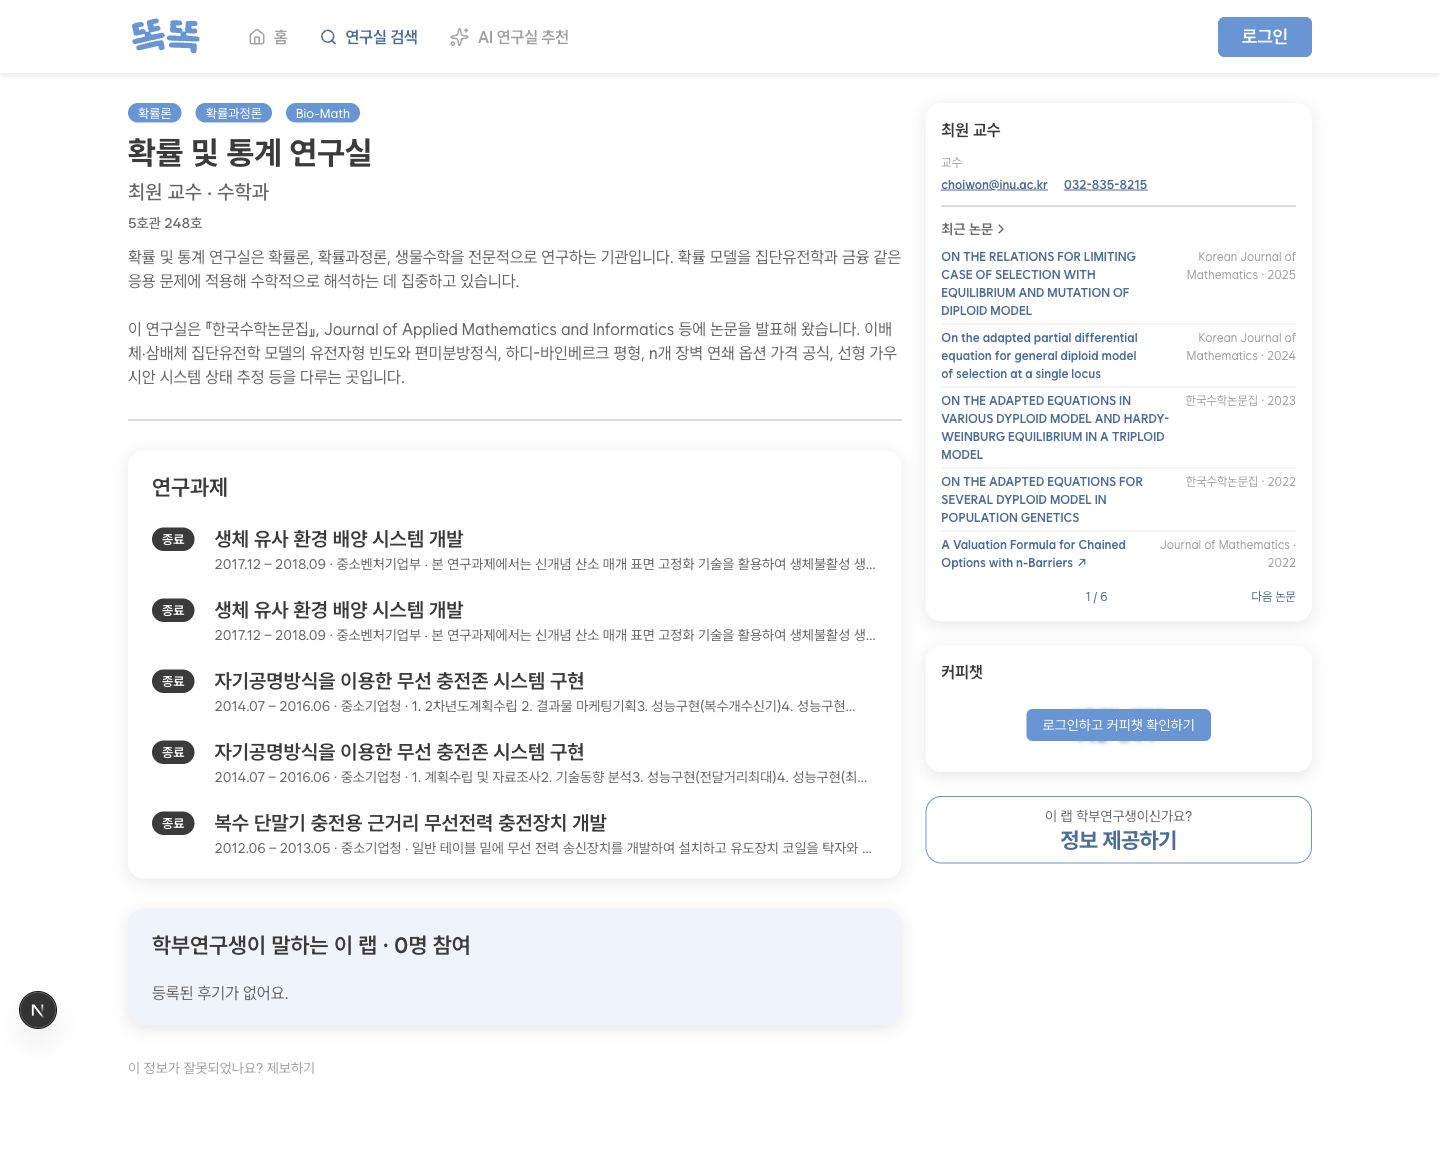
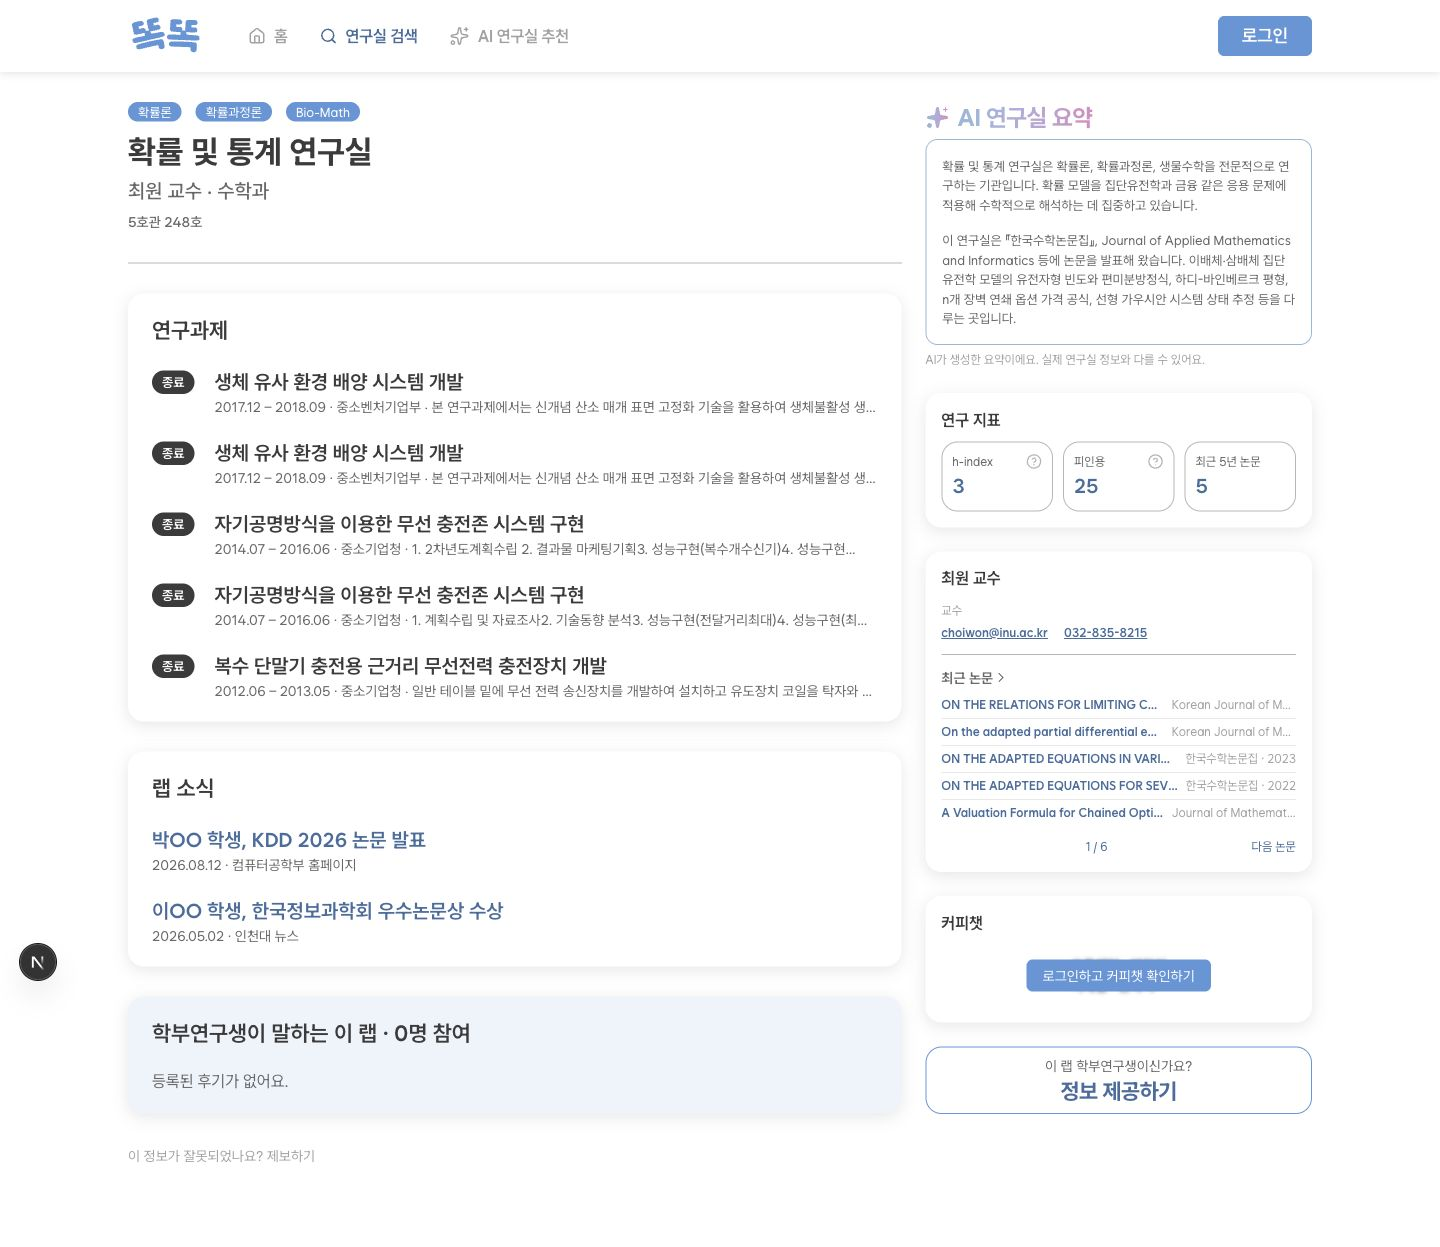
🎨 style : 최신 상세 UI와 논문 말줄임 반영
Related to TTOK-69

diff --git a/src/_pages/lab-detail/ui/lab-detail-page.tsx b/src/_pages/lab-detail/ui/lab-detail-page.tsx
@@ -11,6 +11,7 @@ import { MobileBottomNav } from "@/widgets/mobile-bottom-nav";
 
 import { LabNews, ProfessorCard, ResearchProjects } from "./detail-content";
 import { ResearchMetrics } from "./research-metrics";
+import { DETAIL_NEWS_PREVIEW } from "../model/detail-preview";
 import { MobileAiSummary } from "./mobile-ai-summary";
 
 export type LabDetailPageProps = {
@@ -35,12 +36,19 @@ export function LabDetailPage({
   lab,
 }: LabDetailPageProps) {
   const { memberCounts } = lab;
+  const aiSummary = lab.description.trim()
+    ? lab.description
+        .split(/\n\s*\n/)
+        .map((paragraph) => paragraph.trim())
+        .filter(Boolean)
+    : lab.aiSummary;
+  const displayLab = { ...lab, news: lab.news ?? DETAIL_NEWS_PREVIEW };
 
   return (
     <div className="min-h-screen bg-bg-default text-text-default">
       <main className="flex flex-col gap-5 px-4 pb-[calc(111px_+_env(safe-area-inset-bottom))] pt-[27px] md:hidden">
-        {lab.aiSummary.length > 0 ? (
-          <MobileAiSummary paragraphs={lab.aiSummary} />
+        {aiSummary.length > 0 ? (
+          <MobileAiSummary paragraphs={aiSummary} />
         ) : null}
 
         <header>
@@ -63,9 +71,6 @@ export function LabDetailPage({
               </Tag>
             ))}
           </div>
-          <p className="mt-[10px] text-[length:var(--font-size-caption1)] leading-[1.5] text-text-subtle">
-            {lab.description}
-          </p>
           <dl className="mt-[10px] flex flex-col gap-[6px] text-[length:var(--font-size-caption1)] leading-[1.5] text-text-subtle">
             <div className="flex gap-1">
               <dt>위치 ·</dt>
@@ -178,14 +183,9 @@ export function LabDetailPage({
                 </a>
               ) : null}
             </div>
-            {lab.description && !lab.aiSummary.length ? (
-              <p className="mt-3 whitespace-pre-line text-[length:var(--font-size-body2)] leading-[1.5] text-text-subtle">
-                {lab.description}
-              </p>
-            ) : null}
           </header>
           <ResearchProjects lab={lab} />
-          <LabNews lab={lab} />
+          <LabNews lab={displayLab} />
           <section className="rounded-[var(--radius-2xl)] bg-bg-primary-subtle px-6 py-5 shadow-[0_4px_16px_var(--color-opacity-black-10)]">
             <h2 className="text-[length:var(--font-size-heading1)] font-semibold leading-[1.5]">
               학부연구생이 말하는 이 랩 · {lab.experience.participantCount}명
@@ -222,7 +222,7 @@ export function LabDetailPage({
           </div>
         </div>
         <aside className="flex min-w-0 flex-col gap-6 pt-[30px]">
-          {lab.aiSummary.length > 0 ? (
+          {aiSummary.length > 0 ? (
             <section>
               <div className="flex items-center gap-2">
                 <Image
@@ -236,7 +236,7 @@ export function LabDetailPage({
                 </h2>
               </div>
               <div className="mt-[6px] rounded-[var(--radius-xl)] border border-[#a7c0db] p-4 text-[length:var(--font-size-label2)] leading-[1.5] text-text-subtle">
-                {lab.aiSummary.map((paragraph) => (
+                {aiSummary.map((paragraph) => (
                   <p className="not-last:mb-4" key={paragraph}>
                     {paragraph}
                   </p>

diff --git a/src/_pages/lab-detail/ui/research-metrics.tsx b/src/_pages/lab-detail/ui/research-metrics.tsx
@@ -4,7 +4,6 @@ import Image from "next/image";
 import { useEffect, useId, useState } from "react";
 
 import type { LabResearchMetrics } from "@/entities/lab";
-import { Tag } from "@/shared/ui";
 
 export function ResearchMetrics({ metrics }: { metrics: LabResearchMetrics }) {
   const [activeMetric, setActiveMetric] = useState<string | null>(null);
@@ -30,7 +29,7 @@ export function ResearchMetrics({ metrics }: { metrics: LabResearchMetrics }) {
       value: metrics.citations,
       percentile: metrics.citationPercentile,
     },
-    { key: "papers", label: "5년 논문", value: metrics.fiveYearPapers },
+    { key: "papers", label: "최근 5년 논문", value: metrics.fiveYearPapers },
   ];
 
   return (
@@ -79,17 +78,7 @@ export function ResearchMetrics({ metrics }: { metrics: LabResearchMetrics }) {
               ) : null}
             </dt>
             <dd className="text-[length:var(--font-size-heading2)] font-semibold leading-[1.5] text-text-primary">
-              {item.value.toLocaleString("ko-KR")}
-            </dd>
-            <dd className="min-h-[15px]">
-              {item.percentile !== undefined ? (
-                <Tag
-                  className="!px-[6px] !text-[10px]"
-                  tone={item.key === "h-index" ? "primary" : "secondary"}
-                >
-                  상위 {item.percentile}%
-                </Tag>
-              ) : null}
+              {item.value?.toLocaleString("ko-KR") ?? "—"}
             </dd>
           </div>
         ))}
@@ -114,6 +103,11 @@ export function ResearchMetrics({ metrics }: { metrics: LabResearchMetrics }) {
           <h3 className="text-[length:var(--font-size-heading2)] font-semibold leading-[1.5]">
             {activeMetric === "citations" ? "피인용지수" : "h-index"}
           </h3>
+          {metrics.syncedAt ? (
+            <p className="mt-1 text-[length:var(--font-size-caption1)] text-text-subtle">
+              기준일 {metrics.syncedAt.slice(0, 10)}
+            </p>
+          ) : null}
           {activeMetric === "citations" ? (
             <>
               <div className="mt-3 rounded-[var(--radius-2xl)] border border-icon-disabled p-3">

diff --git a/src/_pages/lab-detail/ui/detail-content.tsx b/src/_pages/lab-detail/ui/detail-content.tsx
@@ -187,7 +187,8 @@ export function LabNews({ lab }: { lab: LabDetail }) {
 export function PaperTitle({ paper }: { paper: LabPaper }) {
   return paper.url ? (
     <a
-      className="hover:underline focus-visible:outline-2 focus-visible:outline-border-primary"
+      className="block truncate hover:underline focus-visible:outline-2 focus-visible:outline-border-primary"
+      title={paper.title}
       href={paper.url}
       rel="noreferrer"
       target="_blank"
@@ -195,7 +196,9 @@ export function PaperTitle({ paper }: { paper: LabPaper }) {
       {paper.title} ↗
     </a>
   ) : (
-    <span>{paper.title}</span>
+    <span className="block truncate" title={paper.title}>
+      {paper.title}
+    </span>
   );
 }
 
@@ -264,10 +267,10 @@ export function ProfessorCard({
                 className="flex items-start justify-between gap-2 border-b border-border-subtlest py-1 last:border-0"
                 key={`${paper.year}-${paper.title}`}
               >
-                <div className="min-w-0 flex-1 break-words text-[length:var(--font-size-caption1)] font-semibold leading-[1.5] text-text-primary">
+                <div className="min-w-0 flex-1 text-[length:var(--font-size-caption1)] font-semibold leading-[1.5] text-text-primary">
                   <PaperTitle paper={paper} />
                 </div>
-                <span className="max-w-[40%] text-right text-[length:var(--font-size-caption1)] leading-[1.5] text-text-subtlest">
+                <span className="max-w-[35%] shrink-0 truncate text-right text-[length:var(--font-size-caption1)] leading-[1.5] text-text-subtlest">
                   {[paper.venue, paper.year]
                     .filter((value) => value !== null && value !== "")
                     .join(" · ")}

diff --git a/src/_pages/lab-detail/model/detail-preview.ts b/src/_pages/lab-detail/model/detail-preview.ts
@@ -1,0 +1,19 @@
+import type { LabDetail } from "@/entities/lab";
+
+/** 랩 소식 API 도입 전 디자인 검토용 목데이터. 실제 뉴스로 연결하지 않습니다. */
+export const DETAIL_NEWS_PREVIEW: NonNullable<LabDetail["news"]> = [
+  {
+    id: "preview-paper",
+    title: "박OO 학생, KDD 2026 논문 발표",
+    date: "2026.08.12",
+    source: "컴퓨터공학부 홈페이지",
+    url: null,
+  },
+  {
+    id: "preview-award",
+    title: "이OO 학생, 한국정보과학회 우수논문상 수상",
+    date: "2026.05.02",
+    source: "인천대 뉴스",
+    url: null,
+  },
+];

diff --git a/src/_pages/lab-detail/ui/lab-detail-page.stories.tsx b/src/_pages/lab-detail/ui/lab-detail-page.stories.tsx
@@ -9,6 +9,7 @@ import { LabDetailPage } from "./lab-detail-page";
 
 const DESIGN_LAB = {
   ...MOCK_LAB_DETAILS[0],
+  description: MOCK_LAB_DETAILS[0].aiSummary.join("\n\n"),
   professor: {
     name: "김OO",
     position: "교수",

diff --git a/docs/lab-detail-ui.md b/docs/lab-detail-ui.md
@@ -11,6 +11,7 @@
 - 기본 상세: GET /api/laboratory/{id}
 - 연구과제: GET /api/laboratory/{id}/research-projects?page=N
 - 논문: GET /api/laboratory/{id}/publications?page=N
+- 연구 지표: GET /api/research-metric/laboratory/{id}/metrics (2026-10-05 명세 확인)
 - 0부터 시작하는 페이지, 각 5건. 서버의 정렬을 유지한다.
 - URL의 projects/publications를 별도로 보존하며 새로고침·뒤로 가기에서도 같은 페이지를 표시한다.
 - 목록 조회/검증 실패는 빈 목록과 구분해 오류와 재시도를 제공한다. 기본 상세는 계속 표시한다.
@@ -18,7 +19,13 @@
 
 ## 미지원 데이터 및 범위
 
-랩 소식·연구 지표·AI 요약의 응답 계약은 현재 Swagger에서 확인되지 않았다. 선택 데이터가 없으면 해당 영역을 숨긴다. Storybook fixture로 디자인 및 지표 설명 팝오버를 검증하며 실제 화면에는 더미 데이터를 넣지 않는다. introduction은 AI 생성 여부가 명시되지 않아 일반 소개로 유지한다.
+사용자 확인에 따라 introduction/Description을 AI 연구실 요약으로 표시한다. 문단을 유지하며 기본 정보에 중복 표시하지 않는다.
+
+연구 지표는 최신 공개 API의 hIndex/citationCount/recentPublicationCount를 연결한다. 교수 매칭 전 null 및 조회 실패는 —로 표시하며 카드 자체는 유지한다. 실제 0은 0으로 표시한다. 최신 디자인에는 백분위 배지가 없어 표시하지 않는다. 지표 설명에 syncedAt 기준일을 표시한다.
+
+랩 소식 API는 현재 명세에 없어 사용자 요청대로 detail-preview.ts의 디자인 목데이터를 실제 상세에도 표시한다. 목데이터에는 실제 뉴스로 이동하는 URL을 넣지 않는다. API 도입 시 이 fallback을 교체한다.
+
+논문 제목과 학술지/연도는 한 줄 말줄임으로 표시하며 제목 원문은 title 속성과 접근 가능한 텍스트로 유지한다.
 
 서버는 석사/박사별 인원을 구분하지 않으므로 대학원 합계로 표시한다. 교수 경력·지표 백분위도 추정하지 않는다. 북마크 및 AI 메일 첨삭 동작은 이번 PR에서 제공하지 않는다.
 
